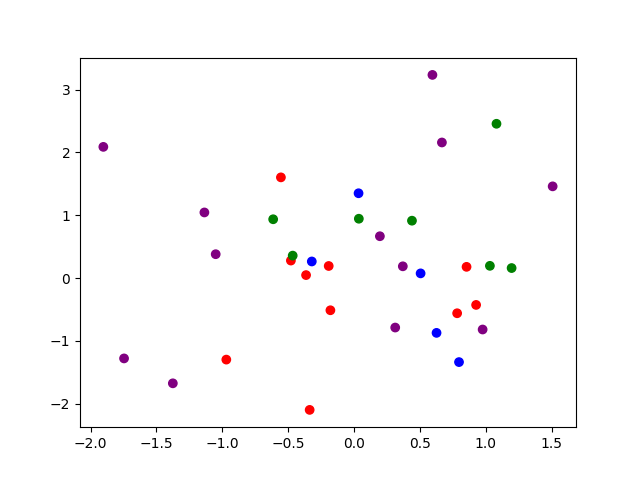
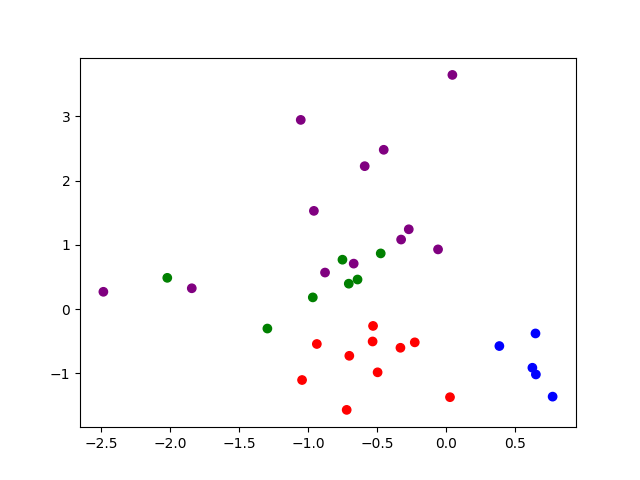
Changed linear normalisation to softmax

diff --git a/src/loss.py b/src/loss.py
@@ -6,7 +6,7 @@ import torch
 import src.utils as utils
 from src.constants import EPS
 
-def NormalisationFactor(fixed_pts, subsample):
+def NormalisationFactor(fixed_pts, subsample, temperature):
 
 	"""
 	Returns the normalisation denominator for probability computation
@@ -15,12 +15,12 @@ def NormalisationFactor(fixed_pts, subsample):
 	pairwise_dot = (fixed_pts.unsqueeze(2) * subsample.unsqueeze(1)).sum(dim = 3)
 	pairwise_dot = pairwise_dot / torch.norm(fixed_pts, 2, dim = 2).unsqueeze(2)
 	pairwise_dot = pairwise_dot / torch.norm(subsample, 2, dim = 2).unsqueeze(1)
-	pairwise_dot = (pairwise_dot + 1) / 2
+	pairwise_dot = torch.exp(temperature * pairwise_dot)
 	normalisation_factor = pairwise_dot.sum(dim = 2)
 
 	return normalisation_factor
 
-def ShiftAndMult(fixed_pts, shift, normalisation_factor):
+def ShiftAndMult(fixed_pts, shift, normalisation_factor, temperature):
 
 	num_samples = fixed_pts.shape[1]
 
@@ -31,14 +31,14 @@ def ShiftAndMult(fixed_pts, shift, normalisation_factor):
 	similarity = similarity.sum(dim = 2)
 	similarity = similarity / torch.norm(shifted, 2, dim = 2)
 	similarity = similarity / torch.norm(base, 2, dim = 2)
-	similarity = (similarity + 1) / 2
+	similarity = torch.exp(temperature * similarity)
 
 	trimmed_norm = normalisation_factor[:, max(-shift, 0): min(num_samples - 1, num_samples - shift - 1)]
 	similarity = similarity / (similarity + trimmed_norm)
 
 	return similarity
 
-def JointCooccurrenceLikelihood(random_walk, embedding, subsample, window_size, device):
+def JointCooccurrenceLikelihood(random_walk, embedding, subsample, window_size, temperature, device):
 
 	"""
 	Computes the joint cooccurence loss averaged over the batches and returns it
@@ -54,7 +54,7 @@ def JointCooccurrenceLikelihood(random_walk, embedding, subsample, window_size, 
 
 	fixed_pts = selected_embeddings
 
-	normalisation_factor = NormalisationFactor(fixed_pts, subsample)
+	normalisation_factor = NormalisationFactor(fixed_pts, subsample, temperature)
 
 	loss = 0
 
@@ -63,7 +63,7 @@ def JointCooccurrenceLikelihood(random_walk, embedding, subsample, window_size, 
 		if(i == 0):
 			continue
 
-		similarity = ShiftAndMult(fixed_pts, i, normalisation_factor)
+		similarity = ShiftAndMult(fixed_pts, i, normalisation_factor, temperature)
 
 		joint = torch.log(torch.max(similarity, torch.tensor([EPS]).float().to(device))).float().to(device)
 		joint = joint.sum(dim = 1)

diff --git a/train.py b/train.py
@@ -5,13 +5,14 @@
 ROOT = "./data/"
 DUMP = "./dump/"
 WALK_LENGTH = 10
-EPOCHS = 3000
+EPOCHS = 1000
 BATCH_SIZE = 20
 EMBED_SIZE = 2
-SUBSAMPLE_SIZE = 0
-LEARNING_RATE = 1e-3
+SUBSAMPLE_SIZE = 0			# 0 corresponds to the size of the dataset
+LEARNING_RATE = 1e-2
 WINDOW_SIZE = 3
 SEED = 0
+TEMPERATURE = 2
 
 import src.dataset as dataset
 import torch
@@ -62,7 +63,7 @@ if(__name__ == "__main__"):
 			batch_size = walk.shape[0]
 
 			subsample = utils.sample(embedding, SUBSAMPLE_SIZE)
-			error = -loss.JointCooccurrenceLikelihood(walk, embedding, subsample, WINDOW_SIZE, device)
+			error = -loss.JointCooccurrenceLikelihood(walk, embedding, subsample, WINDOW_SIZE, TEMPERATURE, device)
 
 			optimiser.zero_grad()
 			error.backward()

diff --git a/src/constants.py b/src/constants.py
@@ -1,7 +1,7 @@
 # Author : Nihesh Anderson
 # Date   : 16 April, 2020
 
-EPS = 1e-9
+EPS = 1e-14
 
 if(__name__ == "__main__"):
 
